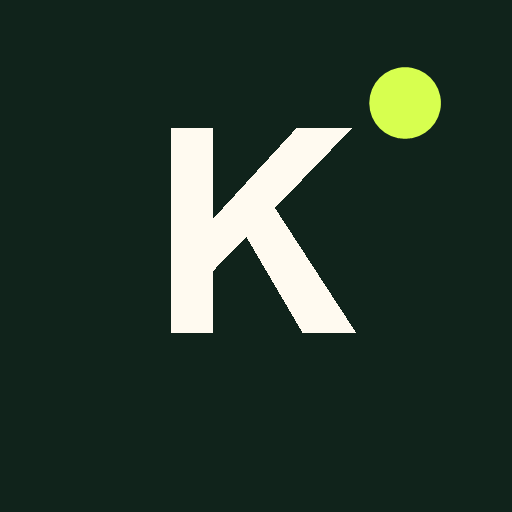
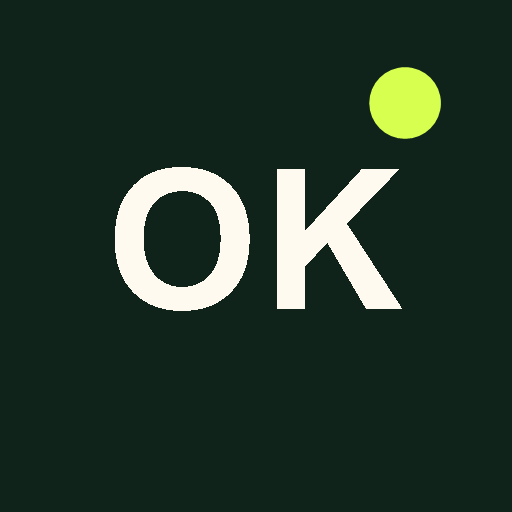
Add Oleksandr signature to featured vacancies

Changed region(s): [[0.2188, 0.25, 0.7812, 0.6562]]

diff --git a/index.html b/index.html
@@ -10,19 +10,19 @@
   <meta property="og:title" content="Oleksandr Kiris · Kiris Jobs">
   <meta property="og:description" content="14 vacancies · gross pay · offline questionnaire · direct WhatsApp contact.">
   <meta property="og:url" content="https://oleksandrkiris.github.io/kiris-jobs/">
-  <meta property="og:image" content="https://oleksandrkiris.github.io/kiris-jobs/assets/share-card.png?v=141">
+  <meta property="og:image" content="https://oleksandrkiris.github.io/kiris-jobs/assets/share-card.png?v=143">
   <meta property="og:image:width" content="1200">
   <meta property="og:image:height" content="630">
   <meta property="og:image:alt" content="Kiris Jobs — вакансии и прямой контакт рекрутера">
   <meta name="twitter:card" content="summary_large_image">
   <meta name="twitter:title" content="Oleksandr Kiris · Kiris Jobs">
   <meta name="twitter:description" content="14 vacancies · gross pay · offline questionnaire · direct WhatsApp contact.">
-  <meta name="twitter:image" content="https://oleksandrkiris.github.io/kiris-jobs/assets/share-card.png?v=141">
+  <meta name="twitter:image" content="https://oleksandrkiris.github.io/kiris-jobs/assets/share-card.png?v=143">
   <link rel="canonical" href="https://oleksandrkiris.github.io/kiris-jobs/">
   <link rel="manifest" href="manifest.webmanifest">
   <link rel="icon" href="assets/icon-192.png" type="image/png">
   <link rel="apple-touch-icon" href="assets/icon-192.png">
-  <link rel="stylesheet" href="assets/styles.css?v=142">
+  <link rel="stylesheet" href="assets/styles.css?v=143">
   <title>Oleksandr Kiris · Kiris Jobs</title>
 </head>
 <body class="vacancy-first">
@@ -36,7 +36,7 @@
   <header class="site-header">
     <div class="shell header-inner">
       <button class="brand" type="button" data-route="home" data-i18n-aria-label="ui.navHome" aria-label="Главная">
-        <span class="brand-mark brand-mark-logo brand-mark-personal" aria-hidden="true">K</span>
+        <span class="brand-mark brand-mark-logo brand-mark-personal" aria-hidden="true">OK</span>
         <span>
           <strong id="brand-name">Oleksandr Kiris</strong>
           <small>Kiris Jobs</small>
@@ -613,7 +613,7 @@
   <footer class="site-footer">
     <div class="shell footer-grid">
       <div>
-        <span class="brand-mark brand-mark-logo brand-mark-personal" aria-hidden="true">K</span>
+        <span class="brand-mark brand-mark-logo brand-mark-personal" aria-hidden="true">OK</span>
         <p><strong id="footer-name">Oleksandr Kiris</strong><br><span id="footer-role">Kiris Jobs · личная платформа рекрутера</span></p>
       </div>
       <div>
@@ -690,20 +690,20 @@
     <button id="toast-action" type="button" hidden></button>
   </div>
 
-  <script src="data/locales/ru.js?v=142"></script>
-  <script src="data/locales/uk.js?v=142"></script>
-  <script src="data/locales/pl.js?v=142"></script>
-  <script src="data/locales/en.js?v=142"></script>
-  <script src="data/locales/az.js?v=142"></script>
-  <script src="data/locales/ka.js?v=142"></script>
-  <script src="data/locales/id.js?v=142"></script>
-  <script src="data/locales/es.js?v=142"></script>
-  <script src="data/locales/fil.js?v=142"></script>
-  <script src="data/locales/ne.js?v=142"></script>
-  <script src="data/locales/hy.js?v=142"></script>
-  <script src="data/content.js?v=142"></script>
-  <script src="assets/i18n.js?v=142"></script>
-  <script src="assets/application-form.js?v=142"></script>
-  <script src="assets/app.js?v=142"></script>
+  <script src="data/locales/ru.js?v=143"></script>
+  <script src="data/locales/uk.js?v=143"></script>
+  <script src="data/locales/pl.js?v=143"></script>
+  <script src="data/locales/en.js?v=143"></script>
+  <script src="data/locales/az.js?v=143"></script>
+  <script src="data/locales/ka.js?v=143"></script>
+  <script src="data/locales/id.js?v=143"></script>
+  <script src="data/locales/es.js?v=143"></script>
+  <script src="data/locales/fil.js?v=143"></script>
+  <script src="data/locales/ne.js?v=143"></script>
+  <script src="data/locales/hy.js?v=143"></script>
+  <script src="data/content.js?v=143"></script>
+  <script src="assets/i18n.js?v=143"></script>
+  <script src="assets/application-form.js?v=143"></script>
+  <script src="assets/app.js?v=143"></script>
 </body>
 </html>

diff --git a/assets/styles.css b/assets/styles.css
@@ -42808,3 +42808,97 @@ body {
     max-width: none;
   }
 }
+
+/* v143 — OK signature and personal vacancy ownership. */
+.vacancy-first .brand-mark-personal {
+  font-size: 17px;
+  letter-spacing: -0.08em;
+}
+
+.vacancy-first .job-personal-stamp {
+  display: grid;
+  grid-template-columns: 40px minmax(0, 1fr) 34px;
+  align-items: center;
+  gap: 10px;
+  min-height: 58px;
+  margin-top: 10px;
+  padding: 8px 10px;
+  background:
+    radial-gradient(circle at 100% 0%, rgba(189, 242, 75, 0.16), transparent 7rem),
+    linear-gradient(135deg, #0d2018, #173b2c);
+  border: 1px solid rgba(23, 59, 44, 0.12);
+  border-radius: 15px;
+  box-shadow: 0 12px 25px rgba(16, 35, 27, 0.12);
+}
+
+.vacancy-first .job-personal-stamp img {
+  display: block;
+  width: 40px;
+  height: 40px;
+  object-fit: cover;
+  object-position: center 18%;
+  border: 2px solid rgba(255, 255, 255, 0.74);
+  border-radius: 12px;
+}
+
+.vacancy-first .job-personal-stamp span {
+  display: grid;
+  min-width: 0;
+  gap: 2px;
+}
+
+.vacancy-first .job-personal-stamp small,
+.vacancy-first .job-personal-stamp strong {
+  overflow: hidden;
+  text-overflow: ellipsis;
+  white-space: nowrap;
+}
+
+.vacancy-first .job-personal-stamp small {
+  color: rgba(255, 255, 255, 0.56);
+  font-size: 8px;
+  font-weight: 750;
+}
+
+.vacancy-first .job-personal-stamp strong {
+  color: #ffffff;
+  font-size: 11px;
+  font-weight: 900;
+}
+
+.vacancy-first .job-personal-stamp > b {
+  display: grid;
+  width: 34px;
+  height: 34px;
+  place-items: center;
+  color: #10231b;
+  background: #bdf24b;
+  border-radius: 10px;
+  font-size: 10px;
+  font-weight: 950;
+  letter-spacing: -0.06em;
+}
+
+@media (max-width: 380px) {
+  .vacancy-first .brand-mark-personal {
+    font-size: 15px;
+  }
+
+  .vacancy-first .job-personal-stamp {
+    grid-template-columns: 36px minmax(0, 1fr) 30px;
+    gap: 8px;
+    padding: 7px 8px;
+  }
+
+  .vacancy-first .job-personal-stamp img {
+    width: 36px;
+    height: 36px;
+  }
+
+  .vacancy-first .job-personal-stamp > b {
+    width: 30px;
+    height: 30px;
+    border-radius: 9px;
+    font-size: 9px;
+  }
+}

diff --git a/assets/app.js b/assets/app.js
@@ -4775,7 +4775,7 @@
           ? "Dopytaj o start"
           : "Ask start date";
     return `
-      <article class="job-card" data-status="${escapeHTML(job.status)}" data-visual="${visualType}" data-country-code="${escapeHTML(routeCode)}" data-salary-confirmed="${Boolean(job.salary?.confirmed)}" aria-labelledby="${escapeHTML(titleId)}">
+      <article class="job-card" data-context="${escapeHTML(context)}" data-status="${escapeHTML(job.status)}" data-visual="${visualType}" data-country-code="${escapeHTML(routeCode)}" data-salary-confirmed="${Boolean(job.salary?.confirmed)}" aria-labelledby="${escapeHTML(titleId)}">
         <div class="job-card-top">
           <div class="job-card-tags">
             <span class="tag tag-country">${escapeHTML(view.format)}</span>
@@ -4823,6 +4823,16 @@
           ${svgIcon("clock")}
           <span>${escapeHTML(t("ui.startNeedsConfirmation"))}</span>
         </p>
+        ${context === "featured" ? `
+          <div class="job-personal-stamp">
+            <img src="assets/oleksandr-kiris-greenhouse.jpg" width="960" height="1280" alt="" loading="lazy" decoding="async">
+            <span>
+              <small>${escapeHTML(t("ui.updated"))} · ${escapeHTML(formatDate(job.updatedAt))}</small>
+              <strong>${escapeHTML(profile.name)}</strong>
+            </span>
+            <b aria-hidden="true">OK</b>
+          </div>
+        ` : ""}
         <div class="job-card-actions job-card-actions-single">
           <button class="button button-primary button-block" type="button" data-job-open="${escapeHTML(job.id)}"><span>${escapeHTML(t("ui.details"))}</span>${svgIcon("arrow")}</button>
           <button class="button button-whatsapp job-card-start" type="button" data-job-chat="${escapeHTML(job.id)}">${svgIcon("whatsapp")}<span>${escapeHTML(startLabel)}</span></button>

diff --git a/sw.js b/sw.js
@@ -1,16 +1,16 @@
 const CACHE_PREFIX = "kiris-jobs-";
-const CACHE_VERSION = "kiris-jobs-v142-personal-voice-2026-07-25";
+const CACHE_VERSION = "kiris-jobs-v143-ok-signature-2026-07-25";
 const CORE_SHELL = [
   "./",
   "./index.html",
   "./manifest.webmanifest",
-  "./data/content.js?v=142",
-  "./data/locales/ru.js?v=142",
-  "./data/locales/en.js?v=142",
-  "./assets/styles.css?v=142",
-  "./assets/i18n.js?v=142",
-  "./assets/application-form.js?v=142",
-  "./assets/app.js?v=142",
+  "./data/content.js?v=143",
+  "./data/locales/ru.js?v=143",
+  "./data/locales/en.js?v=143",
+  "./assets/styles.css?v=143",
+  "./assets/i18n.js?v=143",
+  "./assets/application-form.js?v=143",
+  "./assets/app.js?v=143",
   "./assets/icons.svg",
   "./assets/mobility-map.svg?v=10",
   "./assets/oleksandr-kiris-greenhouse.jpg",
@@ -26,18 +26,18 @@ const CORE_SHELL = [
   "./assets/icon-192.png",
   "./assets/icon-512.png",
   "./assets/share-card.svg",
-  "./assets/share-card.png?v=141"
+  "./assets/share-card.png?v=143"
 ];
 const OPTIONAL_LOCALES = [
-  "./data/locales/uk.js?v=142",
-  "./data/locales/pl.js?v=142",
-  "./data/locales/az.js?v=142",
-  "./data/locales/ka.js?v=142",
-  "./data/locales/id.js?v=142",
-  "./data/locales/es.js?v=142",
-  "./data/locales/fil.js?v=142",
-  "./data/locales/ne.js?v=142",
-  "./data/locales/hy.js?v=142"
+  "./data/locales/uk.js?v=143",
+  "./data/locales/pl.js?v=143",
+  "./data/locales/az.js?v=143",
+  "./data/locales/ka.js?v=143",
+  "./data/locales/id.js?v=143",
+  "./data/locales/es.js?v=143",
+  "./data/locales/fil.js?v=143",
+  "./data/locales/ne.js?v=143",
+  "./data/locales/hy.js?v=143"
 ];
 
 self.addEventListener("install", (event) => {
